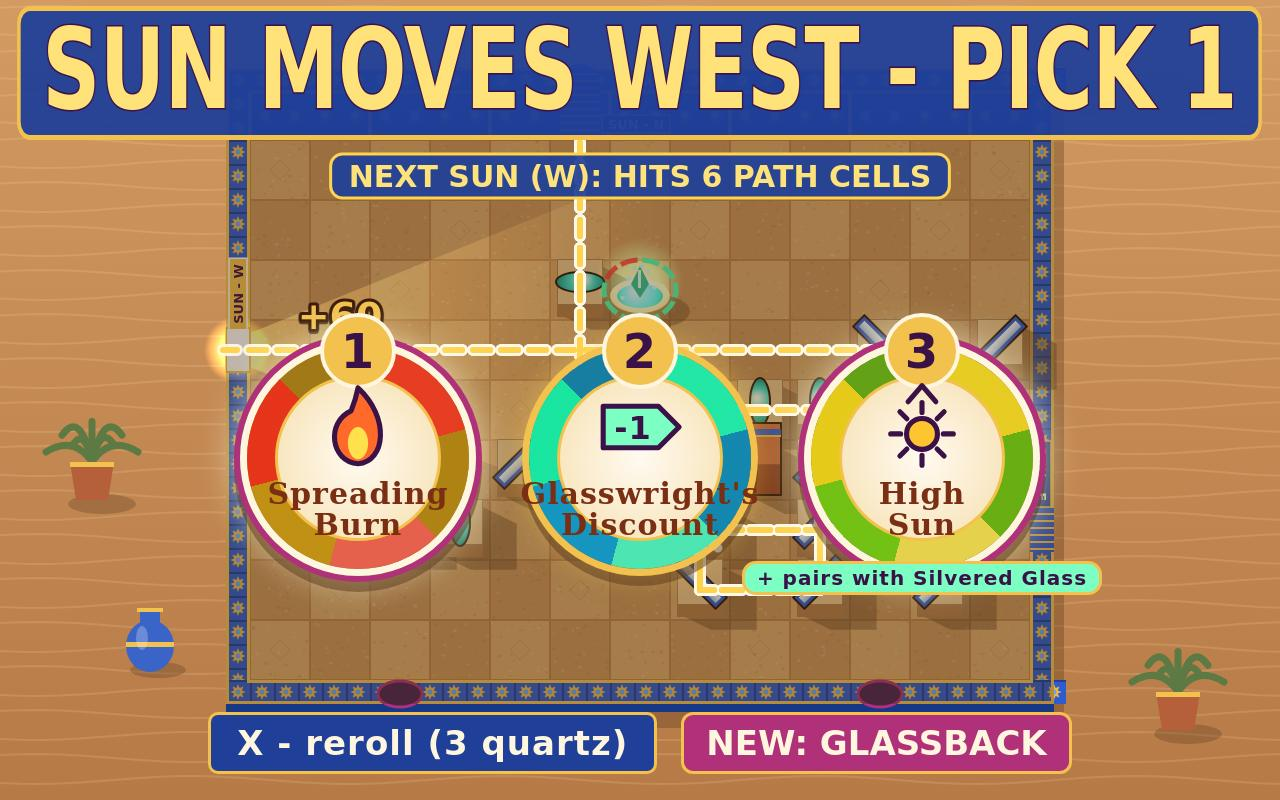
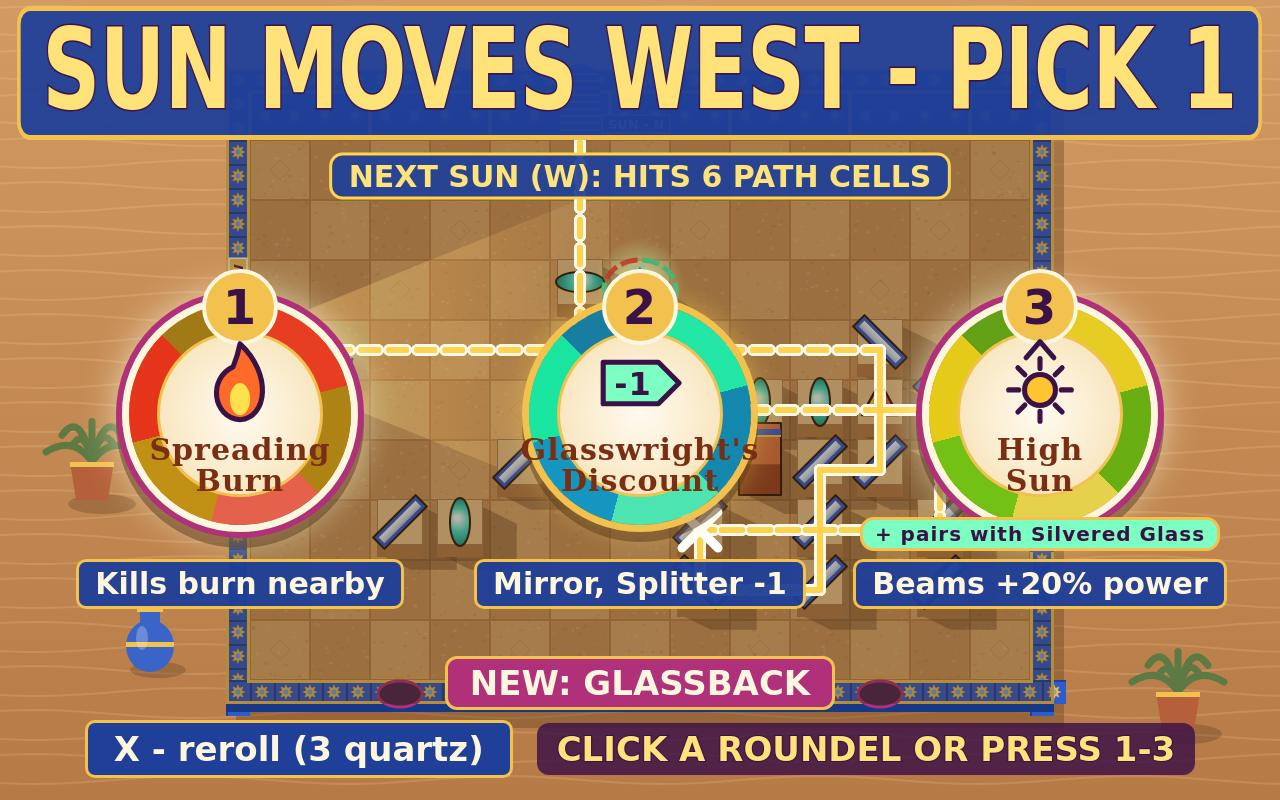
Draft: one-line charm effect under every roundel (from config CHARM_FX, which the sim reads too), CLICK A ROUNDEL OR PRESS 1-3 beside reroll; truth-checked

diff --git a/game/src/config.js b/game/src/config.js
@@ -143,20 +143,37 @@ export const RANK_THRESHOLDS = [
 ];
 export const FLARE_CHARGES = 1;
 
-/** Glass charms (internally boons) offered in the draft. weight: how often it shows; repeat: may be taken again. */
+/** What each glass charm changes, in numbers: the sim reads these, and so does every charm line. */
+export const CHARM_FX = {
+  burning: { lensReach: 2 },
+  flare2: { charges: 1 },
+  magnet: { quartz: 1 },
+  discount: { cost: 1 },
+  sunstone: { heal: 1 },
+  mend: { heal: 4 },
+  highsun: { power: 1.2 },
+  longchain: { window: 1.6 },
+  grinder: { lensMult: 3.2 },
+  trueprism: { prismShare: 0.75 },
+};
+const pct = (x) => `${Math.round(x * 100)}%`;
+/**
+ * Glass charms (internally boons) offered in the draft. text: the full sentence; line: the one-line
+ * effect under its draft roundel. weight: how often it shows; repeat: may be taken again.
+ */
 export const BOONS = [
-  { id: 'silvered', name: NAMES.charm.silvered, text: 'Mirrors lose no power', weight: 2, hue: 205 },
-  { id: 'burning', name: NAMES.charm.burning, text: 'Lens focus reaches +2 cells', weight: 3, hue: 22 },
-  { id: 'flare2', name: NAMES.charm.flare2, text: '+1 Flare charge every sun', weight: 3, hue: 48 },
-  { id: 'magnet', name: NAMES.charm.magnet, text: 'Every beetle drops +1 quartz', weight: 3, hue: 280 },
-  { id: 'discount', name: NAMES.charm.discount, text: 'Mirrors and splitters cost 1 less', weight: 3, hue: 160 },
-  { id: 'sunstone', name: NAMES.charm.sunstone, text: 'Fountain heals 1 HP after every sun', weight: 2, hue: 140 },
-  { id: 'mend', name: NAMES.charm.mend, text: 'Heal the fountain 4 HP', weight: 3, hue: 120, repeat: true },
-  { id: 'spreading', name: NAMES.charm.spreading, text: 'Burned beetles scorch their neighbours', weight: 2, hue: 8 },
-  { id: 'highsun', name: NAMES.charm.highsun, text: 'Every beam +20% power', weight: 2, hue: 52 },
-  { id: 'longchain', name: NAMES.charm.longchain, text: 'SEAR window 1s -> 1.6s', weight: 2, hue: 330 },
-  { id: 'grinder', name: NAMES.charm.grinder, text: 'Lenses focus x3.2 instead of x2.5', weight: 2, hue: 190 },
-  { id: 'trueprism', name: NAMES.charm.trueprism, text: 'Prism branches keep 75% power', weight: 2, hue: 300 },
+  { id: 'silvered', name: NAMES.charm.silvered, text: 'Mirrors lose no power', line: 'Mirrors: no loss', weight: 2, hue: 205 },
+  { id: 'burning', name: NAMES.charm.burning, text: `Lens focus reaches +${CHARM_FX.burning.lensReach} cells`, line: `Lens reach +${CHARM_FX.burning.lensReach}`, weight: 3, hue: 22 },
+  { id: 'flare2', name: NAMES.charm.flare2, text: `+${CHARM_FX.flare2.charges} Flare charge every sun`, line: `+${CHARM_FX.flare2.charges} Flare every sun`, weight: 3, hue: 48 },
+  { id: 'magnet', name: NAMES.charm.magnet, text: `Every beetle drops +${CHARM_FX.magnet.quartz} quartz`, line: `+${CHARM_FX.magnet.quartz} quartz a kill`, weight: 3, hue: 280 },
+  { id: 'discount', name: NAMES.charm.discount, text: `Mirrors and splitters cost ${CHARM_FX.discount.cost} less`, line: `Mirror, Splitter -${CHARM_FX.discount.cost}`, weight: 3, hue: 160 },
+  { id: 'sunstone', name: NAMES.charm.sunstone, text: `Fountain heals ${CHARM_FX.sunstone.heal} HP after every sun`, line: `Fountain +${CHARM_FX.sunstone.heal} a sun`, weight: 2, hue: 140 },
+  { id: 'mend', name: NAMES.charm.mend, text: `Heal the fountain ${CHARM_FX.mend.heal} HP`, line: `Fountain +${CHARM_FX.mend.heal} now`, weight: 3, hue: 120, repeat: true },
+  { id: 'spreading', name: NAMES.charm.spreading, text: 'Burned beetles scorch their neighbours', line: 'Kills burn nearby', weight: 2, hue: 8 },
+  { id: 'highsun', name: NAMES.charm.highsun, text: `Every beam +${pct(CHARM_FX.highsun.power - 1)} power`, line: `Beams +${pct(CHARM_FX.highsun.power - 1)} power`, weight: 2, hue: 52 },
+  { id: 'longchain', name: NAMES.charm.longchain, text: `SEAR window ${SCORING.chainWindow}s -> ${CHARM_FX.longchain.window}s`, line: `SEAR ${SCORING.chainWindow}s -> ${CHARM_FX.longchain.window}s`, weight: 2, hue: 330 },
+  { id: 'grinder', name: NAMES.charm.grinder, text: `Lenses focus x${CHARM_FX.grinder.lensMult} instead of x${BEAM.lensMult}`, line: `Lens x${BEAM.lensMult} -> x${CHARM_FX.grinder.lensMult}`, weight: 2, hue: 190 },
+  { id: 'trueprism', name: NAMES.charm.trueprism, text: `Prism branches keep ${pct(CHARM_FX.trueprism.prismShare)} power`, line: `Prism ${pct(BEAM.prismShare)} -> ${pct(CHARM_FX.trueprism.prismShare)}`, weight: 2, hue: 300 },
 ];
 export const SPREAD_BURN = { radius: 1.1, damage: 12 };
 /** Charm pairs that work well together (a draft roundel names its partner when you own it). */

diff --git a/game/style.css b/game/style.css
@@ -48,10 +48,11 @@ kbd { display: inline-block; min-width: 34px; padding: 0 6px; font: 900 28px sys
 .howto-cols b { color: #ffe27a; }
 .howto-pic { display: block; width: 100%; height: auto; margin: 0 0 8px; border: 2px solid #f2c14e; border-radius: 8px; }
 
-/* Draft: one huge heading, three roundels with big keys, one footer line (readable at 252 px wide). */
+/* Draft: one huge heading, three roundels with big keys and a one-line effect under each, the NEW chip,
+   then reroll and how to pick (readable at 252 px wide). Each roundel owns a 400 px column. */
 #draft-screen { justify-content: flex-start; }
 .sunbanner { margin: 6px 0 0; padding: 0 30px 6px; width: max-content; white-space: nowrap; font: 900 112px system-ui, sans-serif; line-height: 1.05; letter-spacing: -1px; transform: scaleX(0.72); color: #ffe27a; -webkit-text-stroke: 3px #3b1247; paint-order: stroke fill; background: rgba(31, 63, 153, 0.94); border: 5px solid #f2c14e; border-radius: 18px; }
-.roundels { display: flex; gap: 46px; margin-top: 200px; }
+.roundels { display: flex; gap: 164px; margin-top: 156px; }
 .roundel { position: relative; width: 236px; height: 236px; border-radius: 50%; padding: 0 34px; display: flex; flex-direction: column; align-items: center; justify-content: center; gap: 4px; border: 7px solid #f2c14e; background: none; box-shadow: 0 10px 0 rgba(91, 58, 30, 0.5), 0 0 30px rgba(255, 210, 90, 0.45); }
 .roundel.rare { border-color: #fff6df; box-shadow: 0 0 0 6px #b0307a, 0 10px 0 6px rgba(91, 58, 30, 0.5), 0 0 40px rgba(255, 255, 220, 0.85); }
 .roundel .synergy { position: absolute; z-index: 2; bottom: -26px; white-space: nowrap; padding: 2px 12px; font: 900 20px system-ui, sans-serif; color: #3b1247; background: #7dffc4; border: 3px solid #f2c14e; border-radius: 14px; }
@@ -61,12 +62,13 @@ kbd { display: inline-block; min-width: 34px; padding: 0 6px; font: 900 28px sys
 .roundel .glyph { width: 96px; height: 96px; margin-top: 4px; }
 .roundel b { font: 900 30px Georgia, serif; line-height: 1.02; color: #7a2e14; }
 .roundel .key { position: absolute; top: -34px; width: 68px; height: 68px; border-radius: 50%; background: #f2c14e; border: 4px solid #fff6df; color: #3b1247; font: 900 48px system-ui, sans-serif; display: flex; align-items: center; justify-content: center; }
-.roundel .effect { display: none; position: absolute; top: calc(100% + 14px); white-space: nowrap; padding: 6px 16px; font: 800 30px system-ui, sans-serif; color: #fff6df; background: rgba(31, 63, 153, 0.95); border: 3px solid #f2c14e; border-radius: 10px; }
-.roundel:hover .effect { display: block; }
+.roundel .effect { position: absolute; top: calc(100% + 34px); white-space: nowrap; padding: 4px 16px; font: 800 30px system-ui, sans-serif; line-height: 1.2; letter-spacing: 0; color: #fff6df; background: rgba(31, 63, 153, 0.95); border: 3px solid #f2c14e; border-radius: 10px; }
 .roundel:hover { transform: translateY(-4px) scale(1.03); }
-.draft-foot { position: absolute; bottom: 26px; display: flex; gap: 24px; align-items: center; }
-#draft-reroll { font-size: 34px; padding: 8px 26px; }
-.newchip { font: 900 34px system-ui, sans-serif; color: #fff6df; background: #b0307a; border: 3px solid #f2c14e; border-radius: 12px; padding: 8px 22px; }
+.draft-foot { position: absolute; bottom: 22px; display: flex; flex-direction: column; align-items: center; gap: 10px; }
+.draft-keys { display: flex; gap: 24px; align-items: center; }
+#draft-reroll { font-size: 34px; padding: 6px 26px; letter-spacing: 0; }
+.draft-hint { font: 900 34px system-ui, sans-serif; color: #ffe27a; -webkit-text-stroke: 2px #3b1247; paint-order: stroke fill; padding: 6px 20px; background: rgba(59, 18, 71, 0.82); border-radius: 12px; white-space: nowrap; }
+.newchip { font: 900 34px system-ui, sans-serif; color: #fff6df; background: #b0307a; border: 3px solid #f2c14e; border-radius: 12px; padding: 4px 22px; }
 .newchip:empty { display: none; }
 
 /* Results: a full-width title plaque, the hero art on the canvas at the left, an opaque plaque at the right,

diff --git a/game/src/ui/menus.js b/game/src/ui/menus.js
@@ -6,6 +6,7 @@ import { boonById, rerollCost } from '../draft.js';
 import { sunApertureFor } from '../sun.js';
 import { waveRoster } from '../waves.js';
 import { rankFor } from '../combat.js';
+import { draftHint } from '../announce.js';
 import { drawCharmGlyph } from '../render/charms.js';
 import { drawHowtoPicture } from '../render/howto.js';
 
@@ -58,7 +59,7 @@ export function showTitle(menus, bestFor, selected) {
   el('rule-scope').textContent = SCOPE_LINE;
 }
 
-/** The draft: a huge "SUN MOVES WEST - PICK 1", three roundels (effect on hover), reroll, NEW chip. */
+/** The draft: a huge "SUN MOVES WEST - PICK 1", three roundels each with its one-line effect, NEW chip, reroll and how to pick. */
 export function showDraft(menus, run) {
   const key = `${run.waveIndex}|${run.offer.join(',')}|${run.quartz}`;
   if (key === menus.draftKey) return;
@@ -71,7 +72,7 @@ export function showDraft(menus, run) {
       return `<button class="roundel ${b.weight <= 2 ? 'rare' : ''}" style="--hue:${b.hue}" data-action="pick" data-arg="${i}">
         <span class="glass"></span><span class="key">${i + 1}</span>
         <canvas class="glyph" width="96" height="96" data-charm="${id}"></canvas>
-        <b>${escapeHtml(b.name)}</b><span class="effect">${escapeHtml(b.text)}</span>${synergyTag(run, id)}</button>`;
+        <b>${escapeHtml(b.name)}</b><span class="effect">${escapeHtml(b.line)}</span>${synergyTag(run, id)}</button>`;
     })
     .join('');
   for (const canvas of el('draft-roundels').querySelectorAll('canvas.glyph')) drawCharmGlyph(canvas.getContext('2d'), canvas.dataset.charm, 48, 48, 46);
@@ -79,6 +80,7 @@ export function showDraft(menus, run) {
   const reroll = el('draft-reroll');
   reroll.textContent = `X - reroll (${cost} ${NAMES.currency.toLowerCase()})`;
   reroll.disabled = run.quartz < cost;
+  el('draft-hint').textContent = draftHint(run);
   const unlocked = PIECE_ORDER.find((type) => PIECES[type].unlockWave === run.waveIndex);
   const newFoe = waveRoster(run.waveIndex, run.diff).find((r) => r.isNew);
   el('draft-new').textContent = unlocked ? `NEW GLASS: ${PIECES[unlocked].name} [${PIECE_ORDER.indexOf(unlocked) + 1}]` : newFoe ? `NEW: ${ENEMIES[newFoe.type].name}` : '';

diff --git a/game/src/sim.js b/game/src/sim.js
@@ -1,7 +1,7 @@
 // The run state and its fixed-step update. Input never touches this state directly: it queues
 // orders, and stepSim applies them at the start of the next 60 Hz tick, then advances the phase
 // machine build -> wave -> draft -> build ... -> won | lost.
-import { BEAM, DIFFICULTIES, DT, ECONOMY, FLARE_CHARGES, FOUNTAIN_MAX, PIECES, WAVE_COUNT } from './config.js';
+import { BEAM, CHARM_FX, DIFFICULTIES, DT, ECONOMY, FLARE_CHARGES, FOUNTAIN_MAX, PIECES, WAVE_COUNT } from './config.js';
 import { beamModsFor, traceBeams } from './beams.js';
 import { sunApertureFor } from './sun.js';
 import { moveEnemies, shellBlockers, spawnEnemy } from './enemies.js';
@@ -73,7 +73,7 @@ export function pieceUnlocked(run, type) {
 }
 
 export function pieceCost(run, type) {
-  const discount = run.boons.includes('discount') && (type === 'mirror' || type === 'splitter') ? 1 : 0;
+  const discount = run.boons.includes('discount') && (type === 'mirror' || type === 'splitter') ? CHARM_FX.discount.cost : 0;
   return Math.max(1, PIECES[type].cost - discount);
 }
 
@@ -158,7 +158,7 @@ function startWave(run) {
   run.schedule = buildWaveSchedule(run.waveIndex, run.diff);
   run.spawnCursor = 0;
   run.waveTime = 0;
-  run.flareCharges = FLARE_CHARGES + (run.boons.includes('flare2') ? 1 : 0);
+  run.flareCharges = FLARE_CHARGES + (run.boons.includes('flare2') ? CHARM_FX.flare2.charges : 0);
   run.flareLeft = 0;
   run.waveNotes = new Set();
   refreshLight(run);
@@ -166,7 +166,7 @@ function startWave(run) {
 }
 
 function finishWave(run) {
-  if (run.boons.includes('sunstone')) run.shrineHp = Math.min(run.shrineMax, run.shrineHp + 1);
+  if (run.boons.includes('sunstone')) run.shrineHp = Math.min(run.shrineMax, run.shrineHp + CHARM_FX.sunstone.heal);
   const bonus = waveClearBonus(run);
   run.score += bonus;
   run.quartz += ECONOMY.waveQuartz + ECONOMY.waveQuartzPerWave * run.waveIndex;

diff --git a/game/src/testhook.js b/game/src/testhook.js
@@ -50,6 +50,24 @@ function floaterOverlaps(app) {
   return bad;
 }
 
+/** The draft overlay's visible text, and any two of its text boxes (or a box and the screen edge) that collide. */
+function draftText() {
+  const screen = document.getElementById('draft-screen');
+  if (screen.classList.contains('hidden')) return null;
+  const boxes = [...screen.querySelectorAll('.sunbanner, .key, .effect, .synergy, .newchip, #draft-reroll, .draft-hint')]
+    .filter((n) => n.textContent.trim())
+    .map((n) => ({ text: n.textContent.trim(), r: n.getBoundingClientRect() }));
+  const bad = [];
+  boxes.forEach((a, i) => {
+    if (a.r.left < 12 || a.r.top < 0 || a.r.right > 1268 || a.r.bottom > 800) bad.push(`${a.text} / screen edge`);
+    for (const b of boxes.slice(i + 1)) if (a.r.left < b.r.right && b.r.left < a.r.right && a.r.top < b.r.bottom && b.r.top < a.r.bottom) bad.push(`${a.text} / ${b.text}`);
+  });
+  // Each roundel owns a 400 px column; its effect line keeps a 12 px gutter inside it.
+  for (const n of screen.querySelectorAll('.effect')) if (n.getBoundingClientRect().width > 388) bad.push(`${n.textContent.trim()} / wider than its column`);
+  const all = (sel) => [...screen.querySelectorAll(sel)].map((n) => n.textContent.trim());
+  return { effects: all('.effect'), hint: all('.draft-hint')[0], reroll: all('#draft-reroll')[0], overlaps: bad };
+}
+
 export function installTestHook(app, api) {
   app.manual = true;
   window.__test = {
@@ -88,6 +106,9 @@ export function installTestHook(app, api) {
     },
     tagOverlaps() {
       return tagOverlaps(app);
+    },
+    draftText() {
+      return draftText();
     },
     floaterCount() {
       return app.fx.texts.length;

diff --git a/game/src/beams.js b/game/src/beams.js
@@ -2,7 +2,7 @@
 // lenses, prisms and pillars. Produces the power and tint on every cell (what burns beetles),
 // the beam legs to draw, and the bounce points that get a starburst. Glassback shells stop
 // any light but gold. Loops are cut by tracking visited (cell, direction) pairs.
-import { BEAM, DX, DY } from './config.js';
+import { BEAM, CHARM_FX, DX, DY } from './config.js';
 import { cellIndex, inBounds, isShrineCell, pieceAt } from './grid.js';
 
 /** Beam tints (bit flags on lit cells): plain sunlight is 0. */
@@ -37,11 +37,11 @@ export function prismFan(rot, dir) {
 export function beamModsFor(boons) {
   const has = (id) => boons.includes(id);
   return {
-    power: BEAM.power * (has('highsun') ? 1.2 : 1),
+    power: BEAM.power * (has('highsun') ? CHARM_FX.highsun.power : 1),
     bounceLoss: has('silvered') ? 0 : BEAM.bounceLoss,
-    lensMult: has('grinder') ? 3.2 : BEAM.lensMult,
-    lensReach: BEAM.lensReach + (has('burning') ? 2 : 0),
-    prismShare: has('trueprism') ? 0.75 : BEAM.prismShare,
+    lensMult: has('grinder') ? CHARM_FX.grinder.lensMult : BEAM.lensMult,
+    lensReach: BEAM.lensReach + (has('burning') ? CHARM_FX.burning.lensReach : 0),
+    prismShare: has('trueprism') ? CHARM_FX.trueprism.prismShare : BEAM.prismShare,
   };
 }
 

diff --git a/game/src/combat.js b/game/src/combat.js
@@ -1,6 +1,6 @@
 // Burning and scoring: beam damage per tick with armour thresholds, the Flare, the CHAIN
 // multiplier for quick successive kills, quartz drops, and beetles biting the Sun Fountain.
-import { BEAM, RANK_THRESHOLDS, SPREAD_BURN, SCORING, TINT_EFFECTS } from './config.js';
+import { BEAM, CHARM_FX, RANK_THRESHOLDS, SPREAD_BURN, SCORING, TINT_EFFECTS } from './config.js';
 import { TINT_BLUE, TINT_GOLD, TINT_RED } from './beams.js';
 import { armourOf, enemyCell, reachedShrine } from './enemies.js';
 
@@ -16,7 +16,7 @@ export function flareMultiplier(run) {
 }
 
 export function chainWindow(run) {
-  return run.boons.includes('longchain') ? 1.6 : SCORING.chainWindow;
+  return run.boons.includes('longchain') ? CHARM_FX.longchain.window : SCORING.chainWindow;
 }
 
 export function chainMultiplier(count) {
@@ -57,7 +57,7 @@ function registerKill(run, e) {
   chain.best = Math.max(chain.best, chain.count);
   const mult = chainMultiplier(chain.count);
   const points = e.def.score * mult;
-  const quartz = e.def.quartz + (run.boons.includes('magnet') ? 1 : 0);
+  const quartz = e.def.quartz + (run.boons.includes('magnet') ? CHARM_FX.magnet.quartz : 0);
   run.score += points;
   run.quartz += quartz;
   run.feedback.quartzAt = run.time;

diff --git a/game/src/draft.js b/game/src/draft.js
@@ -1,6 +1,6 @@
 // The between-wave draft: offer three different boons (weighted, owned ones removed unless
 // repeatable), reroll for quartz, and apply the chosen boon to the run.
-import { BOONS, ECONOMY } from './config.js';
+import { BOONS, CHARM_FX, ECONOMY } from './config.js';
 import { pickWeighted } from './rng.js';
 
 export function boonById(id) {
@@ -37,6 +37,6 @@ export function rerollOffer(run) {
 export function applyBoon(run, id) {
   run.boons.push(id);
   if (id === 'mend') {
-    run.shrineHp = Math.min(run.shrineMax, run.shrineHp + 4);
+    run.shrineHp = Math.min(run.shrineMax, run.shrineHp + CHARM_FX.mend.heal);
   }
 }

diff --git a/game/src/render/fx.js b/game/src/render/fx.js
@@ -410,8 +410,8 @@ export function drawNextSunGhost(ctx, trace, label, time) {
   ctx.restore();
 }
 
-/** Particles and floating text, drawn above the board. */
-export function drawFx(ctx, fx) {
+/** Particles, then the floating numbers (left off under the draft roundels: texts false). */
+export function drawFx(ctx, fx, texts = true) {
   for (const p of fx.particles) {
     const k = p.life / p.max;
     if (p.kind === 'smoke') {
@@ -441,6 +441,7 @@ export function drawFx(ctx, fx) {
       ctx.fill();
     }
   }
+  if (!texts) return;
   ctx.textAlign = 'center';
   ctx.lineJoin = 'round';
   for (const t of fx.texts) {

diff --git a/game/src/render/scene.js b/game/src/render/scene.js
@@ -94,7 +94,7 @@ export function drawFrame(ctx, frame) {
     const alpha = phase === 'wave' || phase === 'won' ? 1 : phase === 'build' ? 0.8 : 0.95;
     drawBeams(ctx, ui.ghostTrace ?? run.trace, { alpha, flare: run.flareLeft > 0 ? 1 : 0, time, patterns: frame.patterns });
   }
-  drawFx(ctx, fx);
+  drawFx(ctx, fx, phase !== 'draft');
   if (phase !== 'draft' && !frame.resultsHero) drawBoardTags(ctx, run);
   ctx.restore();
   if (frame.resultsHero) drawResultsHero(ctx, run, time);

diff --git a/game/index.html b/game/index.html
@@ -82,8 +82,8 @@
     <h2 id="draft-banner" class="sunbanner"></h2>
     <div id="draft-roundels" class="roundels"></div>
     <div class="draft-foot">
-      <button id="draft-reroll" data-action="reroll"></button>
       <span id="draft-new" class="newchip"></span>
+      <div class="draft-keys"><button id="draft-reroll" data-action="reroll"></button><span id="draft-hint" class="draft-hint"></span></div>
     </div>
   </section>
 

diff --git a/game/src/announce.js b/game/src/announce.js
@@ -63,3 +63,8 @@ export function currentBanner(run) {
   if (run.waveIndex + 1 >= WAVE_COUNT) return 'LAST SUN - BURN THE TITAN';
   return `NEXT ${NAMES.sun}: ${sunApertureFor(run.seed, run.waveIndex + 1).phase.wallName} - REAIM GLASS`;
 }
+
+/** How to take a charm, under the draft roundels. */
+export function draftHint(run) {
+  return `CLICK A ROUNDEL OR PRESS 1-${run.offer.length}`;
+}
